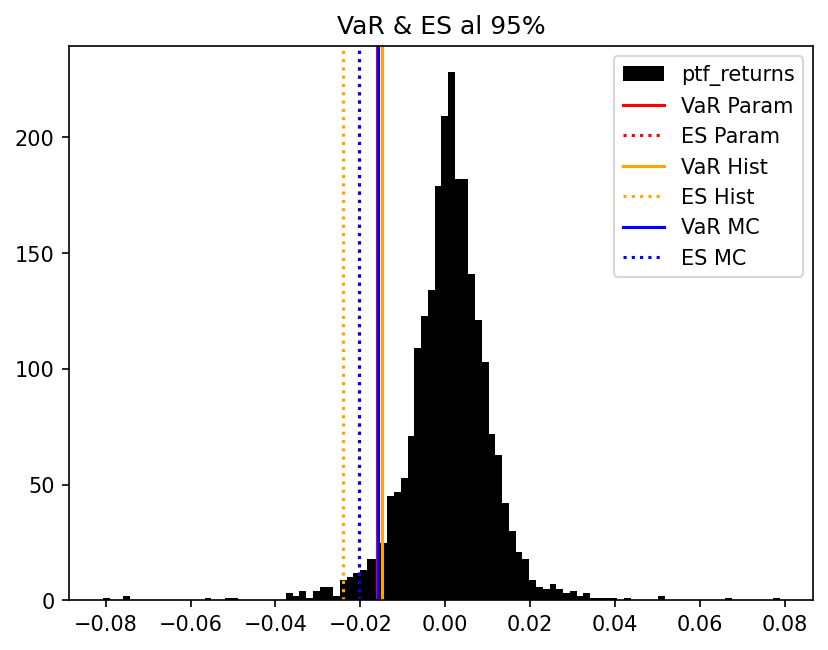
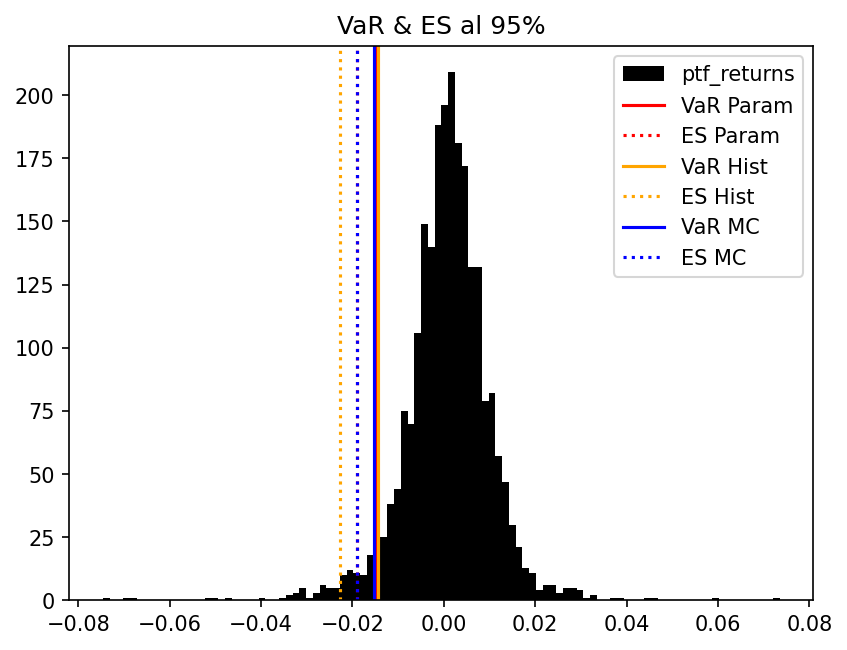
Updated: Time window correction

diff --git a/a_data.py b/a_data.py
@@ -12,8 +12,8 @@ weights = TgP.iloc[:,0]
 weights = weights[weights>0]
 tickers = list(weights.index)
 # Time window
-start = "2016-04-30"
-end = "2026-04-30"
+start = "2016-03-31"
+end = "2026-03-31"
 
 def get_returns(tickers: list, start: str, end: str) -> pd.DataFrame:
     """Funzione che ritorna un df di log-rendimenti dei ticker di interesse nella finestra temporale richiesta"""